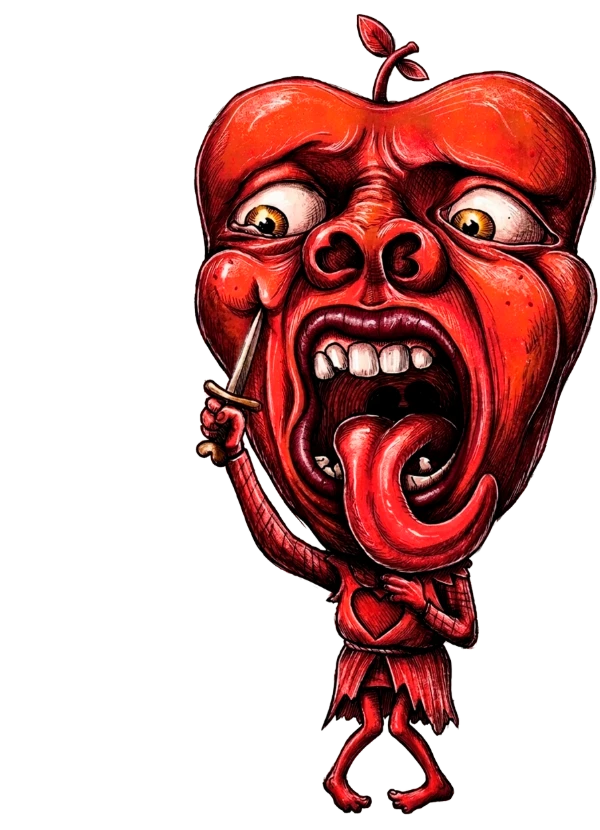
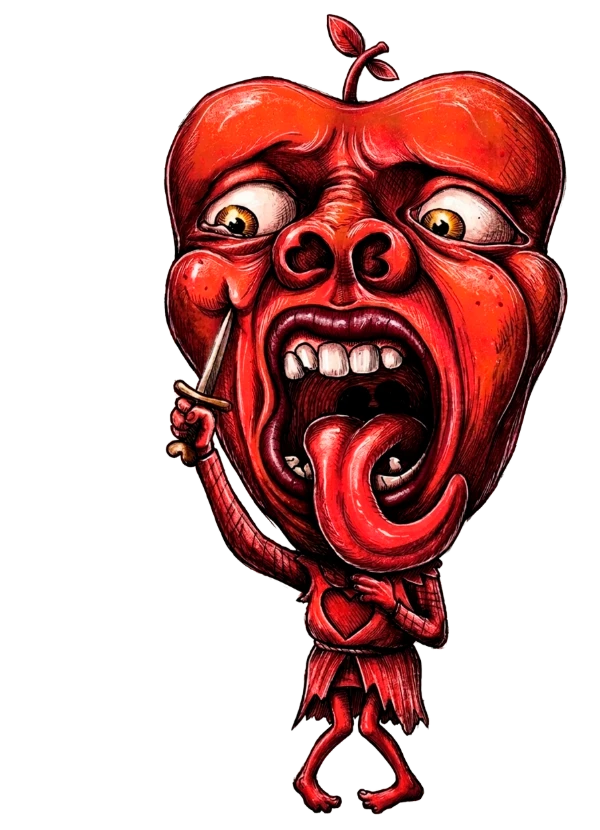
Valete de Copas um pouco mais para a esquerda

diff --git a/index.html b/index.html
@@ -20,7 +20,7 @@
   <link rel="preload" href="arte/menu/papelao.webp" as="image">
   <link rel="preload" href="arte/menu/naipes.webp" as="image">
   <link rel="preload" href="arte/menu/logo.webp" as="image">
-  <link rel="stylesheet" href="estilo.css?v=202611011640">
+  <link rel="stylesheet" href="estilo.css?v=202611011647">
 </head>
 <body>
   <div id="palco">
@@ -83,20 +83,20 @@
     <small data-i18n="girar.sub">The table is made for a landscape screen.</small>
   </div>
 
-  <script defer src="js/idioma.js?v=202611011640"></script>
-  <script defer src="js/libs.js?v=202611011640"></script>
-  <script defer src="js/motor.js?v=202611011640"></script>
-  <script defer src="js/palhacos.js?v=202611011640"></script>
-  <script defer src="js/pesos.js?v=202611011640"></script>
-  <script defer src="js/bot.js?v=202611011640"></script>
-  <script defer src="js/cartas.js?v=202611011640"></script>
-  <script defer src="js/som.js?v=202611011640"></script>
-  <script defer src="js/dados3d.js?v=202611011640"></script>
-  <script defer src="js/decks.js?v=202611011640"></script>
-  <script defer src="js/regras.js?v=202611011640"></script>
-  <script defer src="js/rede.js?v=202611011640"></script>
-  <script defer src="js/decoracao.js?v=202611011640"></script>
-  <script defer src="js/tutorial.js?v=202611011640"></script>
-  <script defer src="js/interface.js?v=202611011640"></script>
+  <script defer src="js/idioma.js?v=202611011647"></script>
+  <script defer src="js/libs.js?v=202611011647"></script>
+  <script defer src="js/motor.js?v=202611011647"></script>
+  <script defer src="js/palhacos.js?v=202611011647"></script>
+  <script defer src="js/pesos.js?v=202611011647"></script>
+  <script defer src="js/bot.js?v=202611011647"></script>
+  <script defer src="js/cartas.js?v=202611011647"></script>
+  <script defer src="js/som.js?v=202611011647"></script>
+  <script defer src="js/dados3d.js?v=202611011647"></script>
+  <script defer src="js/decks.js?v=202611011647"></script>
+  <script defer src="js/regras.js?v=202611011647"></script>
+  <script defer src="js/rede.js?v=202611011647"></script>
+  <script defer src="js/decoracao.js?v=202611011647"></script>
+  <script defer src="js/tutorial.js?v=202611011647"></script>
+  <script defer src="js/interface.js?v=202611011647"></script>
 </body>
 </html>

diff --git a/js/cartas.js b/js/cartas.js
@@ -35,7 +35,7 @@ window.SS = window.SS || {};
   // 1 px numa carta da mão) e sumia.
   const BORDA = '<rect x="2.2" y="2.2" width="195.6" height="275.6" rx="15" fill="none" stroke="#141414" stroke-width="4.5"/>';
   // Versão das imagens das cartas (trocar quando um arquivo mudar com o mesmo nome, para o navegador não usar o antigo).
-  const V_ARTE = '?v=17';
+  const V_ARTE = '?v=18';
 
   // Fundo da carta: o creme liso de sempre. Com fundos desenhados (arte/cartas/fundo-<letra>.webp, feitos no gabarito
   // arte/cartas/gabarito), ponha as letras deles aqui: cada carta pega sempre a mesma variação (rank + naipe).

diff --git a/js/interface.js b/js/interface.js
@@ -5713,7 +5713,7 @@ window.SS = window.SS || {};
 
   // Build e novidades (o que aparece no canto da tela inicial): atualize a cada versão publicada.
   const BUILD = {
-    n: 143, data: '02/11/2026',
+    n: 144, data: '02/11/2026',
     novidades: [
       ['Valete de Copas espelhado', 'Jack of Hearts mirrored'],
       ['Todas as cartas, de número e de costas, com o mesmo contorno preto das cartas de letra', 'All cards, numbers and backs, with the same black outline as the letter cards'],
